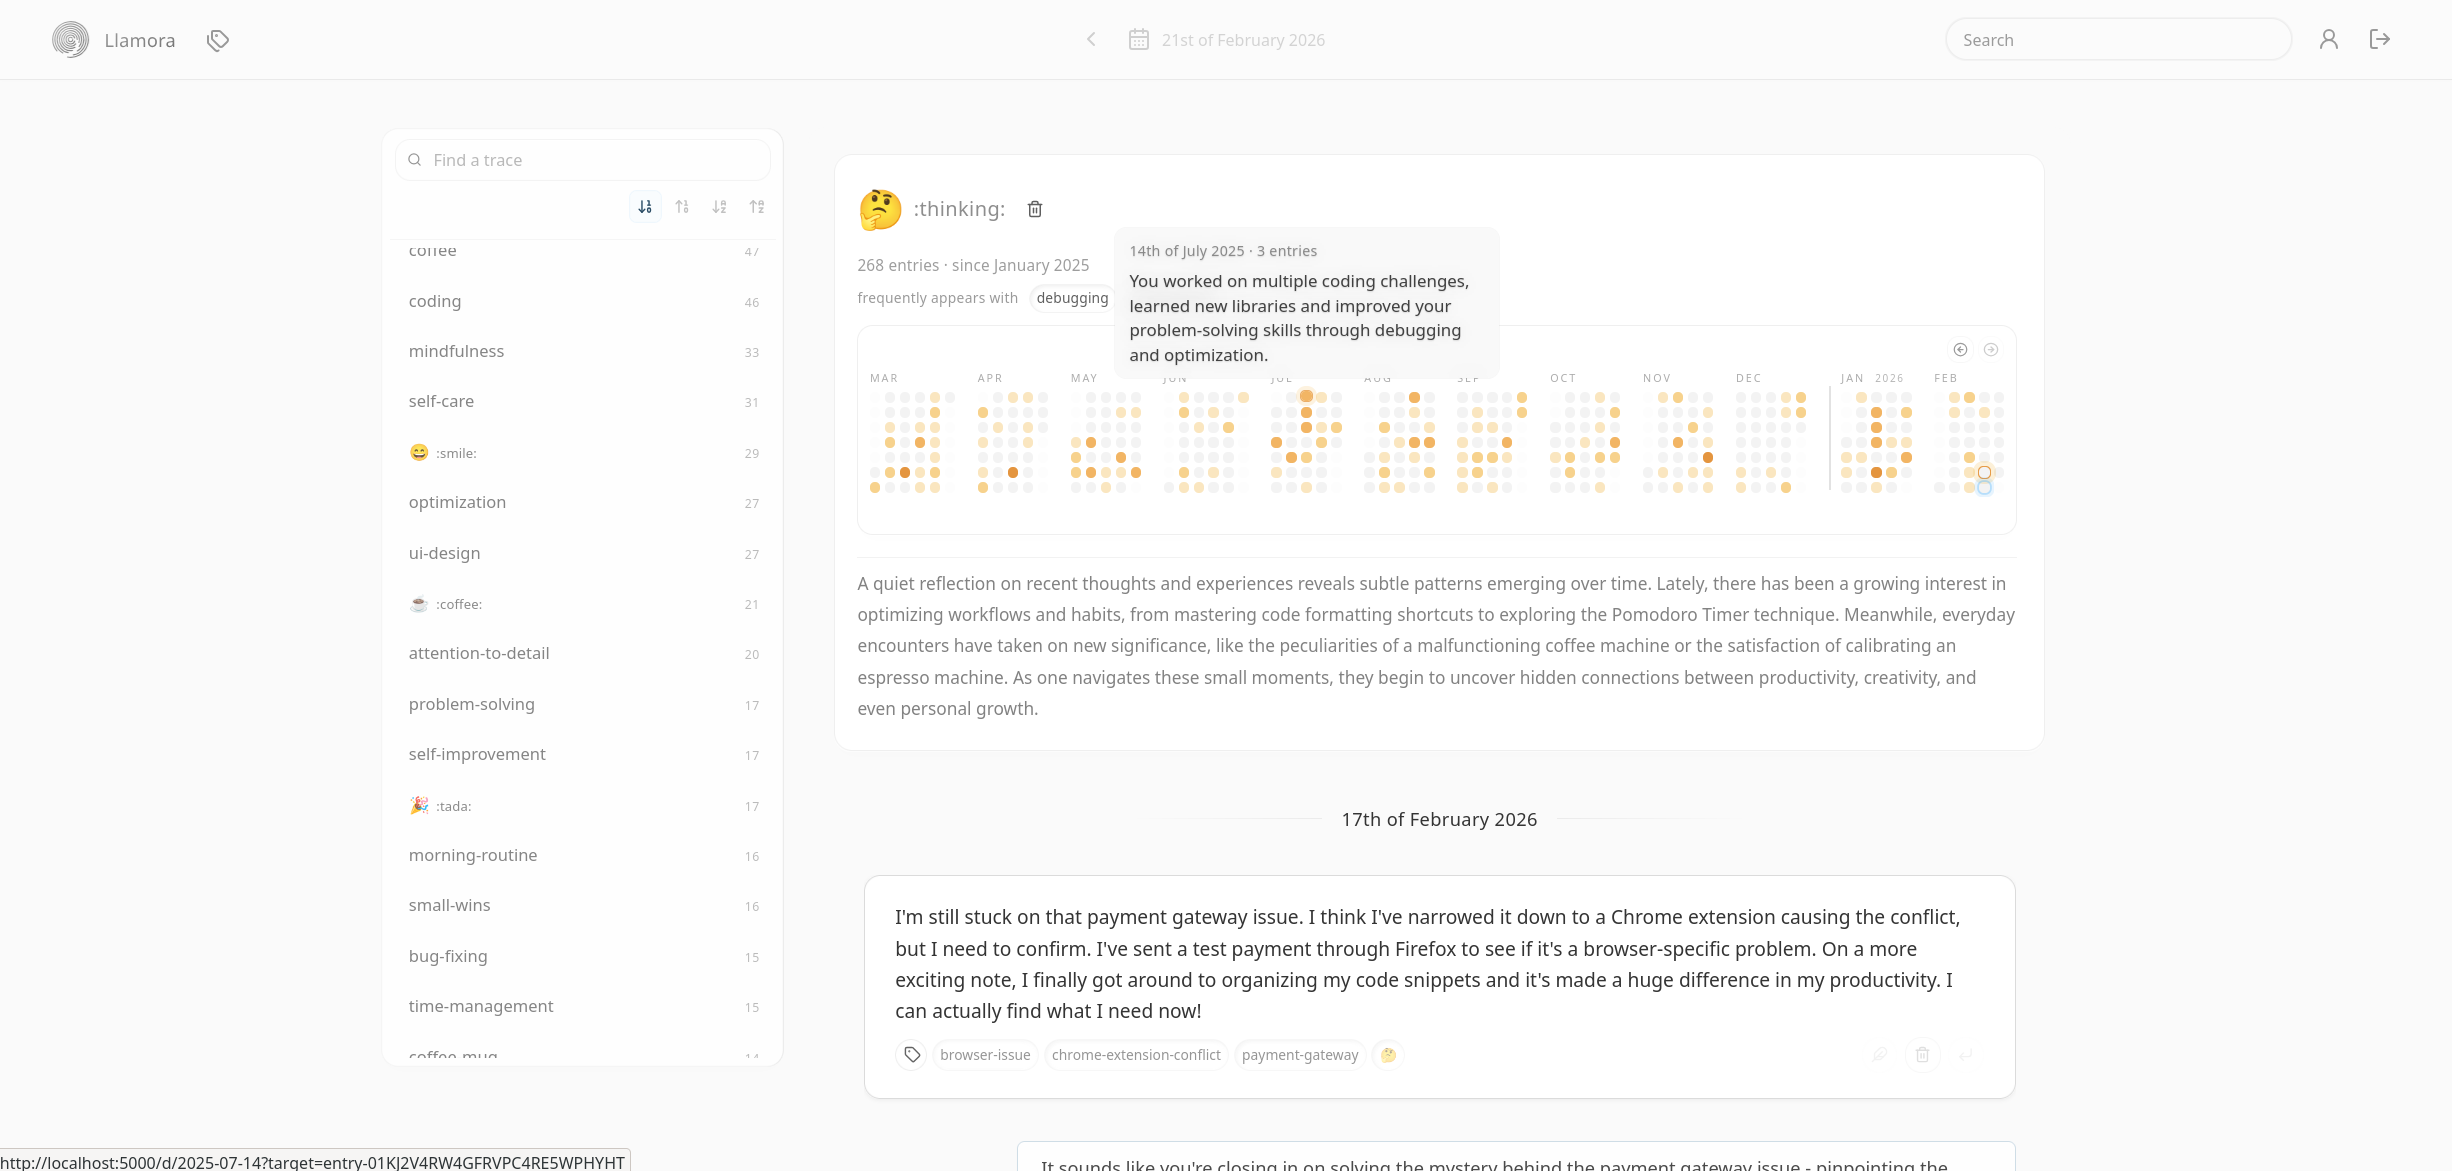
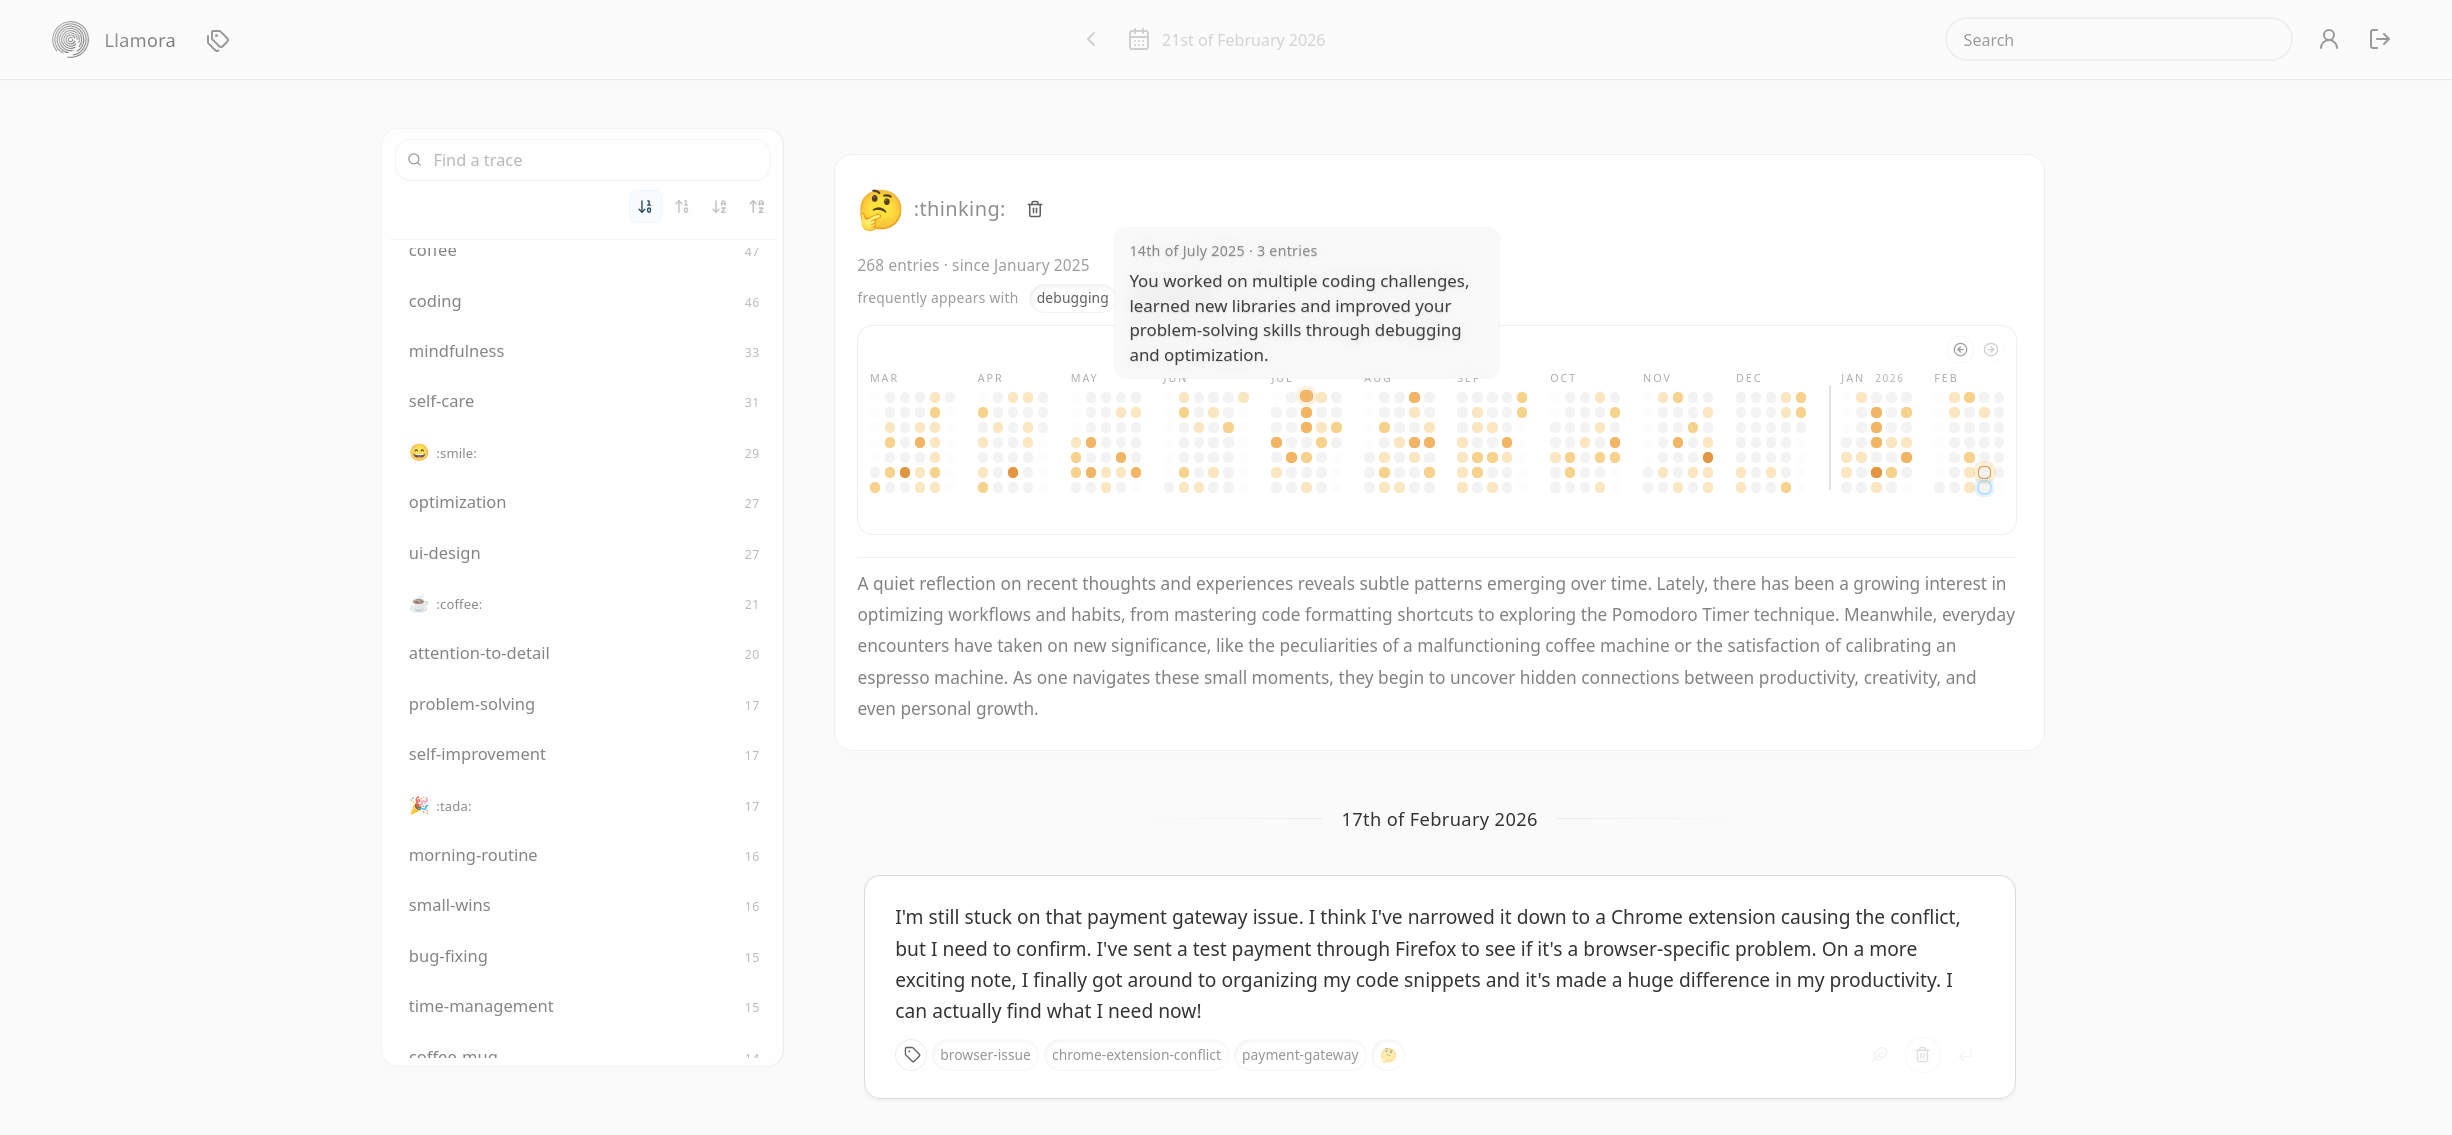
Update README / screenshot

diff --git a/README.md b/README.md
@@ -7,6 +7,8 @@
 > Write in daily pages. A model running on your machine produces day openings, recaps, and reflective responses — all inside the journal itself.
 > Not a chat wrapper. A navigable archive built around time and return.
 
+![Llamora diary view with trace popover](./doc/screenshots/diary-tags2.png)
+
 ---
 
 ## Table of Contents
